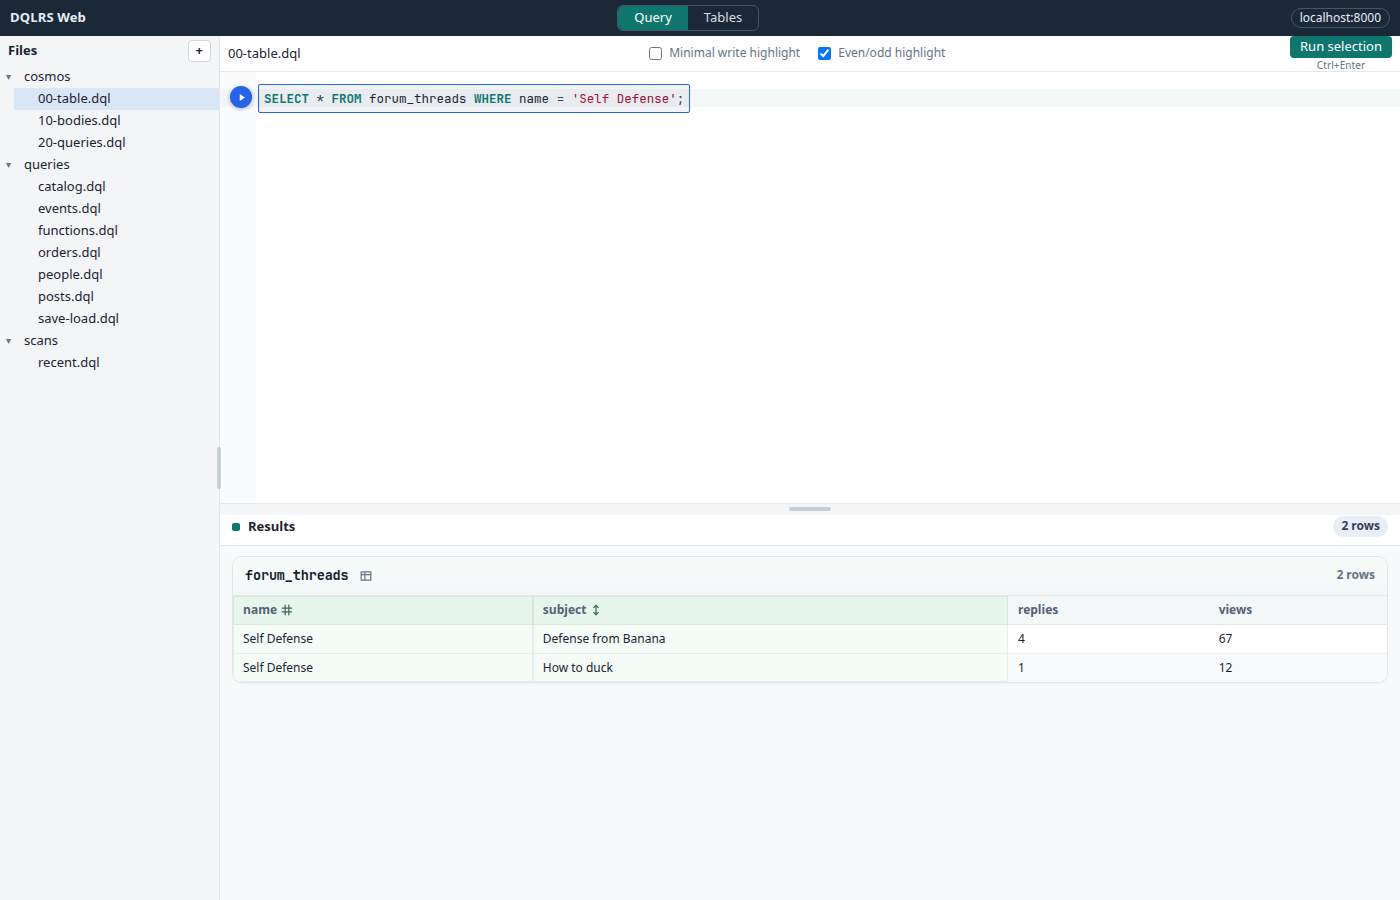
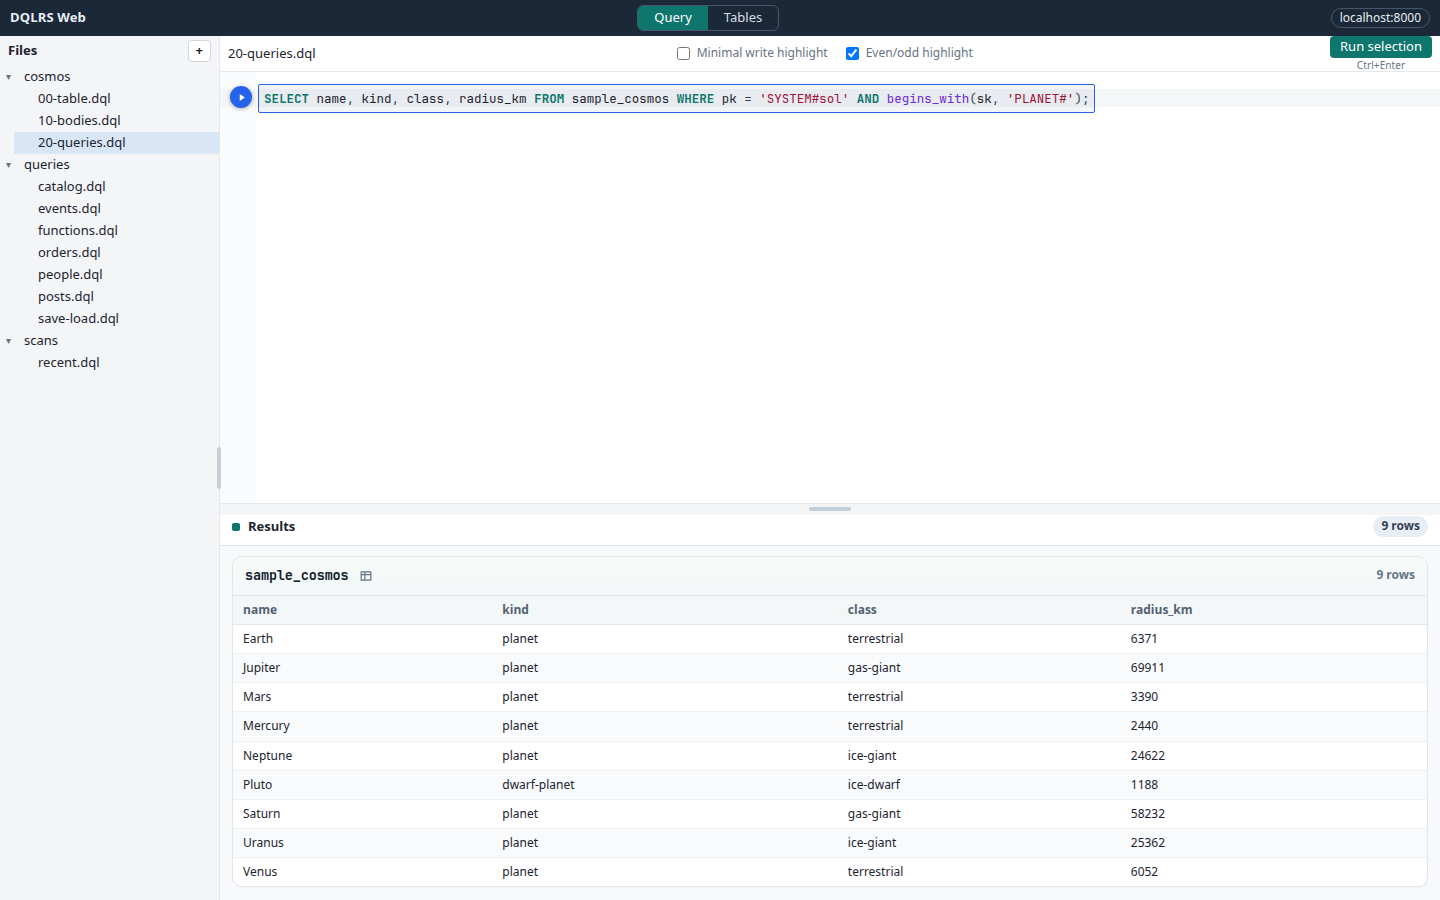
Move maintainer notes out of the README.
Keep the README install-and-usage focused (no clone steps), point
maintainers at MAINTAINER.md, and refresh GUI screenshots with the
cosmos sample on a dark color terminal for dqlrs.

diff --git a/README.md b/README.md
@@ -40,7 +40,7 @@ In the REPL: `help` or `help <statement>`.
 
 ## Install
 
-Install from the **`v-rust`** branch on GitHub — no clone required.
+Install from the **`v-rust`** branch on GitHub.
 
 ### Rust `dqlrs` (recommended)
 
@@ -72,8 +72,11 @@ Language docs: [`py-docs/topics/getting_started.rst`](py-docs/topics/getting_sta
 Use `-c` / `--command` to run DQL (or a meta-command) and exit — no REPL:
 
 ```bash
-dqlrs -c "SELECT * FROM forum_threads WHERE name = 'Self Defense';"
-dqlrs --json -c "SCAN * FROM forum_threads LIMIT 5"
+dqlrs -H localhost -p 8000 -c \
+  "SELECT name, kind, class, radius_km FROM sample_cosmos
+   WHERE pk = 'SYSTEM#sol' AND begins_with(sk, 'PLANET#');"
+
+dqlrs --json -c "SCAN * FROM sample_cosmos WHERE habitable = TRUE LIMIT 5"
 dqlrs -H localhost -p 8000 -c "ls"
 ```
 
@@ -110,8 +113,7 @@ dqlrs notebook
 dqlrs notebook --local
 ```
 
-JupyterLab with a **DQL (Rust)** kernel. From a checkout:
-`./notebook/start.sh --local --start-local`.
+JupyterLab with a **DQL (Rust)** kernel.
 
 ![dqlrs notebook](docs/images/notebook.png)
 
@@ -148,62 +150,25 @@ In the REPL: `whoami`, `local [host] [port]`, `use <region>`. Config:
 
 ## Examples
 
+Cosmos sample (table + bodies + queries):
+
 ```sql
-CREATE TABLE forum_threads (name STRING HASH KEY, subject STRING RANGE KEY, THROUGHPUT (4, 2));
+CREATE TABLE sample_cosmos (
+  pk STRING HASH KEY,
+  sk STRING RANGE KEY
+) GLOBAL INDEX ('by-kind', kind STRING, name STRING);
 
-INSERT INTO forum_threads (name, subject, views, replies)
-VALUES ('Self Defense', 'Defense from Banana', 67, 4);
+SELECT name, kind, class, radius_km FROM sample_cosmos
+WHERE pk = 'SYSTEM#sol' AND begins_with(sk, 'PLANET#');
 
-SELECT * FROM forum_threads WHERE name = 'Self Defense';
+SELECT pk, sk, name, radius_km FROM sample_cosmos
+WHERE kind = 'moon'
+USING by-kind;
 
-help select
-whoami
+SCAN * FROM sample_cosmos WHERE habitable = TRUE;
+
+EXPLAIN SELECT * FROM sample_cosmos
+WHERE pk = 'PLANET#jupiter' AND begins_with(sk, 'MOON#');
 ```
 
-----
-
-## For maintainers
-
-[![Python CI](https://github.com/jspreddy/dql/actions/workflows/python-workflows.yml/badge.svg)](https://github.com/jspreddy/dql/actions/workflows/python-workflows.yml)
-
-[![Rust CI](https://github.com/jspreddy/dql/actions/workflows/rust-workflows.yml/badge.svg)](https://github.com/jspreddy/dql/actions/workflows/rust-workflows.yml)
-
-| Path | Contents |
-| --- | --- |
-| [`py-impl/`](py-impl/) | Python package, tests, packaging, tooling |
-| [`py-docs/`](py-docs/) | Sphinx docs for the Python client |
-| [`py-plans/`](py-plans/) | Python-only design notes |
-| [`rust-impl/`](rust-impl/) | Rust Cargo workspace (`dqlrs`) |
-| [`rust-docs/`](rust-docs/) | Markdown user docs for the Rust client |
-| [`rust-plans/`](rust-plans/) | Rust rewrite / architecture notes |
-| [`black-box-tests/`](black-box-tests/) | Black-box acceptance cases (binaries + DynamoDB Local) |
-| [`notebook/`](notebook/) | JupyterLab UI and DQL kernels |
-| [`dqlrs-web/`](dqlrs-web/) | Web UI assets and Playwright tests |
-| [`docs/images/`](docs/images/) | README screenshots |
-| [`scripts/`](scripts/) | Shared installers, version bump, helpers |
-| [`.github/workflows/`](.github/workflows/) | Python and Rust CI |
-
-### Local install from a clone
-
-```bash
-git clone https://github.com/jspreddy/dql.git
-cd dql
-git checkout v-rust
-```
-
-Python (editable):
-
-```bash
-cd py-impl
-uv tool install --python 3.9 --editable .
-```
-
-Rust:
-
-```bash
-cd rust-impl
-cargo install --path crates/dql-cli --locked --root ~/.local
-```
-
-Verifications: [`VERIFICATION.md`](VERIFICATION.md). From the repo root,
-[`just`](https://just.systems/) lists tasks; `just verify` runs the full check.
+Maintainer notes live in [`MAINTAINER.md`](MAINTAINER.md).

diff --git a/MAINTAINER.md b/MAINTAINER.md
@@ -1,0 +1,50 @@
+# Maintainer notes
+
+[![Python CI](https://github.com/jspreddy/dql/actions/workflows/python-workflows.yml/badge.svg)](https://github.com/jspreddy/dql/actions/workflows/python-workflows.yml)
+
+[![Rust CI](https://github.com/jspreddy/dql/actions/workflows/rust-workflows.yml/badge.svg)](https://github.com/jspreddy/dql/actions/workflows/rust-workflows.yml)
+
+| Path | Contents |
+| --- | --- |
+| [`py-impl/`](py-impl/) | Python package, tests, packaging, tooling |
+| [`py-docs/`](py-docs/) | Sphinx docs for the Python client |
+| [`py-plans/`](py-plans/) | Python-only design notes |
+| [`rust-impl/`](rust-impl/) | Rust Cargo workspace (`dqlrs`) |
+| [`rust-docs/`](rust-docs/) | Markdown user docs for the Rust client |
+| [`rust-plans/`](rust-plans/) | Rust rewrite / architecture notes |
+| [`black-box-tests/`](black-box-tests/) | Black-box acceptance cases (binaries + DynamoDB Local) |
+| [`notebook/`](notebook/) | JupyterLab UI and DQL kernels |
+| [`dqlrs-web/`](dqlrs-web/) | Web UI assets and Playwright tests |
+| [`docs/images/`](docs/images/) | README screenshots |
+| [`scripts/`](scripts/) | Shared installers, version bump, helpers |
+| [`.github/workflows/`](.github/workflows/) | Python and Rust CI |
+
+## Local install from a clone
+
+```bash
+git clone https://github.com/jspreddy/dql.git
+cd dql
+git checkout v-rust
+```
+
+Python (editable):
+
+```bash
+cd py-impl
+uv tool install --python 3.9 --editable .
+```
+
+Rust:
+
+```bash
+cd rust-impl
+cargo install --path crates/dql-cli --locked --root ~/.local
+```
+
+## Verification
+
+[`VERIFICATION.md`](VERIFICATION.md). From the repo root,
+[`just`](https://just.systems/) lists tasks; `just verify` runs the full check.
+
+Notebook from a checkout: `./notebook/start.sh --local --start-local`.
+Details: [`notebook/README.md`](notebook/README.md).
